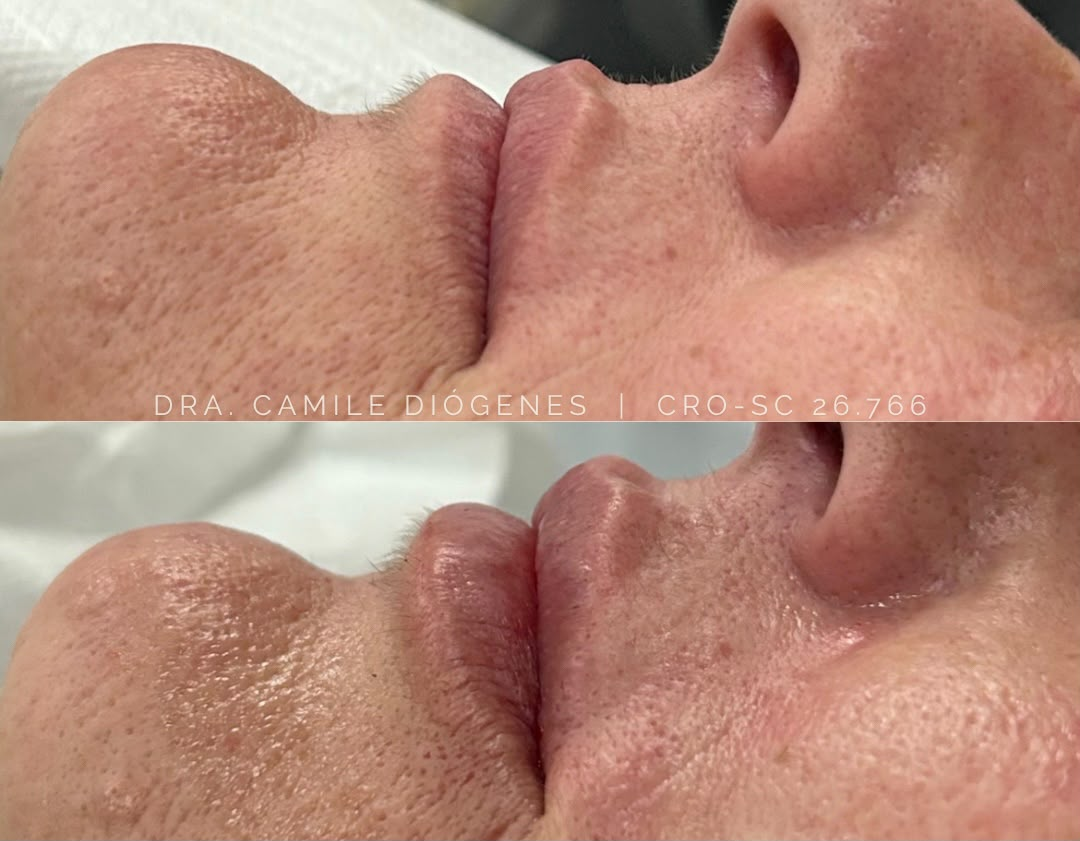
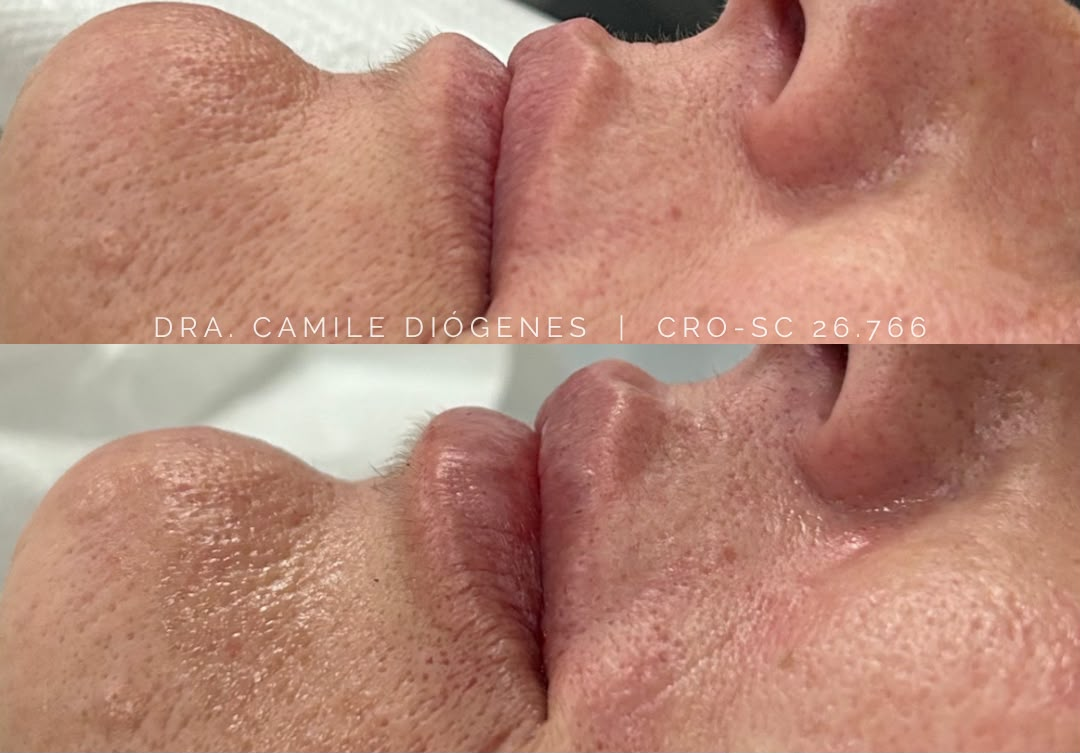
fix preenchimento labial

diff --git a/styles.css b/styles.css
@@ -1,10 +1,11 @@
 :root{--cream:#F4F0E8;--paper:#fffdfa;--beige:#e4dac9;--gold:#9A700A;--ink:#575454;--muted:#807a72;--line:#e3ddd3;--serif:"Cormorant Garamond",Georgia,serif;--sans:Poppins,Arial,sans-serif}*{box-sizing:border-box}html{scroll-behavior:smooth;scroll-padding-top:5rem}body{margin:0;background:var(--cream);color:var(--ink);font-family:var(--sans);font-size:16px;line-height:1.62}a{color:inherit;text-decoration:none}img{display:block;max-width:100%}h1,h2,h3,p{margin-top:0}h1,h2,h3{font-family:var(--serif);font-weight:500;line-height:1.02}.container{width:min(1120px,calc(100% - 3rem));margin:auto}.section{padding:7.5rem 0}.skip-link{position:fixed;z-index:99;top:0;left:1rem;padding:.5rem 1rem;background:var(--ink);color:white;transform:translateY(-120%)}.skip-link:focus{transform:none}:focus-visible{outline:3px solid var(--gold);outline-offset:4px}
 .site-header{position:sticky;top:0;z-index:10;border-bottom:1px solid var(--line);background:rgba(245,241,233,.93);backdrop-filter:blur(12px)}.nav-wrap{display:flex;min-height:5rem;align-items:center;justify-content:space-between}.brand img{width:72px;max-height:52px;object-fit:contain}#site-nav{display:flex;align-items:center;gap:2.2rem;font-size:.82rem}#site-nav a{transition:color .25s ease}#site-nav a:hover{color:var(--gold)}.menu-toggle{display:none;border:0;background:transparent}.menu-toggle span{display:block;width:24px;height:1px;margin:5px;background:var(--ink)}
 .cta{display:inline-flex;align-items:center;justify-content:center;min-height:3.5rem;padding:.8rem 2.2rem;border:1px solid var(--gold);border-radius:999px;background:var(--gold);color:#fff;font-size:.78rem;letter-spacing:.05em;transition:.25s}.cta:hover{background:#bd8b12;transform:translateY(-2px);box-shadow:0 10px 22px rgba(150,104,0,.18)}.cta-small{min-height:2.7rem;padding:.55rem 1.4rem}.cta-secondary{background:transparent;color:var(--gold)}.cta-secondary:hover{color:#fff}
-.hero{padding:7.2rem 0 6rem}.hero-grid{display:grid;grid-template-columns:1.05fr .95fr;align-items:center;gap:7rem}.eyebrow{margin-bottom:1.25rem;color:var(--gold);font-size:.65rem;font-weight:600;letter-spacing:.27em;text-transform:uppercase}.hero h1{margin-bottom:2rem;font-size:clamp(4rem,6vw,6.2rem);letter-spacing:-.04em}.hero h1 em{color:var(--gold);font-weight:500}.hero-copy>p:not(.eyebrow){max-width:470px;margin-bottom:2.5rem;font-size:.95rem}.hero-actions{display:flex;flex-wrap:wrap;gap:1rem}.hero-photo{padding:1.5rem;border-radius:3rem;background:var(--beige)}.hero-photo img{width:100%;aspect-ratio:1/1.18;object-fit:cover;object-position:center top;border-radius:2.3rem}
+.hero{padding:7.2rem 0 6rem}.hero-grid{display:grid;grid-template-columns:1.05fr .95fr;align-items:center;gap:7rem}.eyebrow{margin-bottom:1.25rem;color:var(--gold);font-size:.65rem;font-weight:600;letter-spacing:.27em;text-transform:uppercase}.hero h1{margin-bottom:2rem;font-size:clamp(4rem,6vw,6.2rem);letter-spacing:-.04em}.hero h1 em{color:var(--gold);font-weight:500}.hero-copy>p:not(.eyebrow){max-width:470px;margin-bottom:2.5rem;font-size:.95rem}.hero-actions{display:flex;flex-wrap:wrap;gap:1rem}.hero-actions [data-clinic-link]{margin-inline:auto}.hero-photo{padding:1.5rem;border-radius:3rem;background:var(--beige)}.hero-photo img{width:100%;aspect-ratio:1/1.18;object-fit:cover;object-position:center top;border-radius:2.3rem}
 .about{background:var(--paper)}.about-layout{display:grid;grid-template-columns:1fr 1fr;align-items:center;gap:4.5rem}.about-photo{margin:0;overflow:hidden;border-radius:1.9rem}.about-photo img{width:100%;aspect-ratio:1.22/1;object-fit:cover;object-position:center 20%}.about-copy h2{margin-bottom:2rem;font-size:clamp(3.1rem,4.2vw,4.2rem)}.about-copy p{margin-bottom:1.3rem;font-size:.92rem}.about-copy blockquote{margin:1.7rem 0 0;color:var(--gold);font-size:.87rem;font-style:italic}.about-copy .cta{margin-top:2rem}.section-heading{max-width:620px;margin-bottom:3rem}.section-heading h2{font-size:clamp(3rem,4vw,4.3rem)}.treatment-grid{display:grid;grid-template-columns:repeat(3,1fr);gap:1.25rem}.treatment-card{overflow:hidden;border:1px solid var(--line);border-radius:1.2rem;background:var(--paper);transition:transform .25s,box-shadow .25s}.treatment-card:hover{box-shadow:0 18px 35px rgba(83,72,49,.1);transform:translateY(-4px)}.treatment-card img{width:100%;height:13rem;object-fit:cover}.treatment-card h3{margin:1.35rem 1.35rem .55rem;font-size:1.85rem}.treatment-card p{margin:0 1.35rem 1.5rem;font-size:.76rem}
 .contact{padding-top:7rem}.contact-heading{text-align:center}.contact-heading h2{margin:0 auto 2.2rem;font-size:clamp(3.1rem,4.6vw,5rem)}.contact-panel{display:grid;grid-template-columns:1fr 1fr;gap:2rem;margin-top:5.5rem}.contact-panel address{padding:2.2rem;border:1px solid #dfd5c6;border-radius:1.5rem;background:var(--paper);font-style:normal}.contact-panel address p{margin-bottom:1.5rem}.contact-panel address p:last-child{margin-bottom:0}.contact-panel small{display:block;margin-bottom:.3rem;color:var(--gold);font-size:.64rem;letter-spacing:.23em;text-transform:uppercase}.contact-panel address a{border-bottom:1px solid transparent}.contact-panel address a:hover{border-color:var(--gold);color:var(--gold)}.contact-panel iframe{width:100%;min-height:100%;border:0;border-radius:1.5rem;background:var(--beige)}
 .site-footer{padding:3rem 0 1.2rem;background:var(--beige)}.footer-grid{display:grid;grid-template-columns:1fr 1.2fr .8fr;gap:3rem}.footer-grid>img{width:105px}.footer-grid p{font-size:.78rem}.footer-grid a{display:block;margin:.2rem 0;font-size:.78rem;transition:color .25s ease}.footer-grid a:hover{color:var(--gold)}.copyright{margin-top:2.7rem;font-size:.68rem}.whatsapp-float{position:fixed;right:1rem;bottom:1rem;z-index:8;display:grid;width:3.3rem;height:3.3rem;place-items:center;border-radius:50%;background:#49E670;color:white;box-shadow:0 8px 22px #0003;transition:transform .25s ease-in-out,box-shadow .25s ease-in-out;animation:floatPulse 2s infinite}.whatsapp-float:hover{transform:scale(1.1);box-shadow:0 12px 28px rgba(0,0,0,.35)}.whatsapp-float svg{width:1.5rem;height:1.5rem}@keyframes floatPulse{0%{box-shadow:0 8px 22px rgba(0,0,0,.2),0 0 0 0 rgba(73,230,112,.5)}70%{box-shadow:0 8px 22px rgba(0,0,0,.2),0 0 0 12px rgba(73,230,112,0)}100%{box-shadow:0 8px 22px rgba(0,0,0,.2),0 0 0 0 rgba(73,230,112,0)}}
 [data-reveal]{opacity:0;transform:translateY(18px);transition:opacity .6s ease,transform .6s ease}[data-reveal].is-visible{opacity:1;transform:none}
-@media (max-width: 760px){.container{width:min(100% - 2rem,1120px)}.menu-toggle{display:block}#site-nav{position:absolute;top:100%;right:0;left:0;display:grid;gap:0;padding:1rem;background:var(--cream);border-bottom:1px solid var(--line);opacity:0;pointer-events:none;transform:translateY(-10px);transition:.2s}.site-header.menu-open #site-nav{opacity:1;pointer-events:auto;transform:none}#site-nav a{padding:.7rem}.hero{padding:4.2rem 0}.hero-grid,.about-layout,.contact-panel{grid-template-columns:1fr;gap:2.5rem}.about-photo{display:none}.hero h1{font-size:3.7rem}.hero-photo{max-width:420px;margin:auto;padding:1rem;border-radius:2rem}.hero-photo img{border-radius:1.5rem}.hero-actions{display:grid}.treatment-grid{grid-template-columns:1fr}.section{padding:5rem 0}.contact-panel{margin-top:3.5rem}.contact-panel iframe{min-height:22rem}.footer-grid{grid-template-columns:1fr;gap:1.5rem}.footer-grid>img{width:85px}.contact-heading h2{font-size:3rem}}
+@media (max-width: 760px){.container{width:min(100% - 2rem,1120px)}.menu-toggle{display:block}#site-nav{position:absolute;top:100%;right:0;left:0;display:grid;gap:0;padding:1rem;background:var(--cream);border-bottom:1px solid var(--line);opacity:0;pointer-events:none;transform:translateY(-10px);transition:.2s}.site-header.menu-open #site-nav{opacity:1;pointer-events:auto;transform:none}#site-nav a{padding:.7rem}.hero{padding:4.2rem 0}.hero-grid,.about-layout,.contact-panel{grid-template-columns:1fr;gap:2.5rem}.about-photo{display:none}.hero h1{font-size:3.7rem}.hero-photo{max-width:420px;margin:auto;padding:1rem;border-radius:2rem}.hero-photo img{border-radius:1.5rem}.hero-actions{display:grid}.hero-actions [data-clinic-link]{margin-inline:0}.treatment-grid{grid-template-columns:1fr}.section{padding:5rem 0}.contact-panel{margin-top:3.5rem}.contact-panel iframe{min-height:22rem}.footer-grid{grid-template-columns:1fr;gap:1.5rem}.footer-grid>img{width:85px}.contact-heading h2{font-size:3rem}}
 @media (prefers-reduced-motion: reduce){*,*::before,*::after{scroll-behavior:auto!important;transition-duration:.01ms!important;animation-duration:.01ms!important}[data-reveal]{opacity:1;transform:none}}
+.hialuronico-card img{object-position:center 25%}

diff --git a/index.html b/index.html
@@ -111,7 +111,7 @@
               href="https://wa.me/5548988294565?text=Ol%C3%A1%2C%20Dra.%20Camile!%20Gostaria%20de%20agendar%20uma%20consulta."
               target="_blank" rel="noopener" data-analytics-event="generate_lead" data-analytics-method="whatsapp"
               data-analytics-placement="hero">Agendar consulta</a><a class="cta cta-secondary"
-              href="#tratamentos">Conheça os tratamentos</a></div>
+              href="#contato" data-analytics-event="ver_consultorio">Conheça meu consultório</a></div>
         </div>
         <div class="hero-photo" data-reveal><img src="img/camile-01.jpeg" alt="Dra. Camile Diógenes"
             fetchpriority="high" /></div>
@@ -192,10 +192,10 @@
             <p>Aplicação personalizada para suavizar linhas de expressão e retardar o envelhecimento, buscando valorizar
               a autoestima e proporcionar resultados naturais, respeitando suas características e expectativas.</p>
           </article>
-          <article class="treatment-card" data-reveal><img src="img/hialuronico.jpeg" alt="Ácido hialurônico"
+          <article class="treatment-card hialuronico-card" data-reveal><img src="img/hialuronico.jpeg" alt="Preenchimento Labial"
               loading="lazy" />
-            <h3>Ácido hialurônico</h3>
-            <p>Procedimento realizado de forma individualizada para promover a harmonia facial, respeitando
+            <h3>Preenchimento Labial</h3>
+            <p>Procedimento realizado com ácido hialurônico de forma individualizada para promover a harmonia facial, respeitando
               características naturais de cada paciente.</p>
           </article>
         </div>
